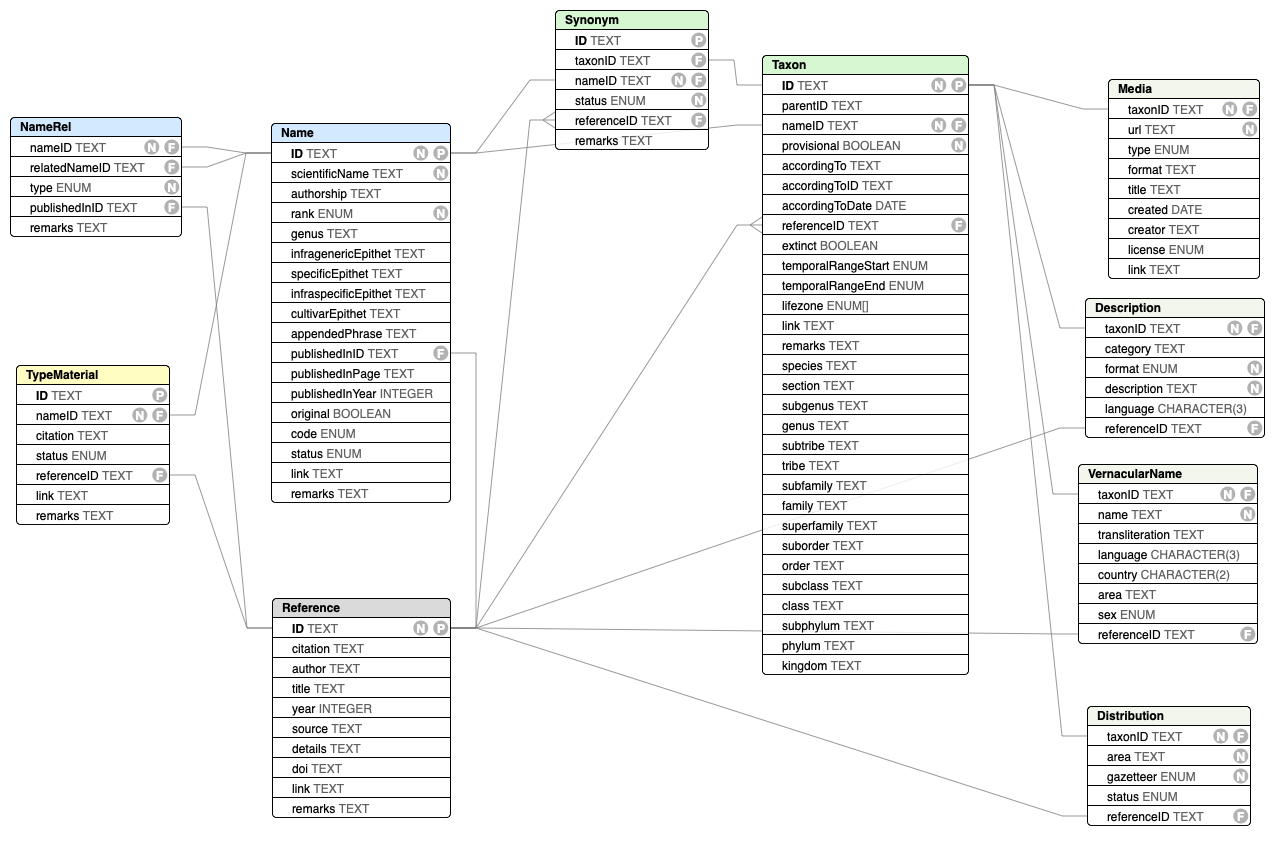
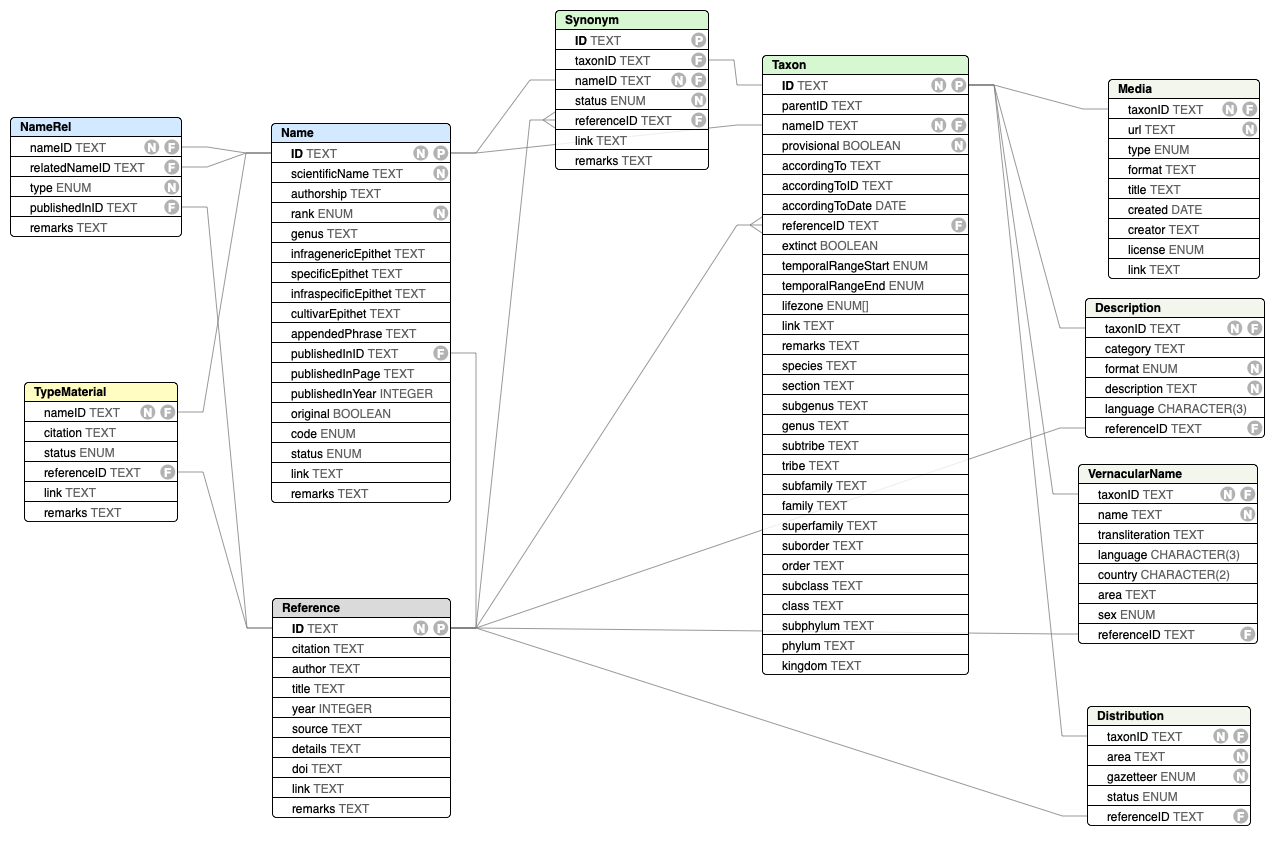
Remove TypeMaterial.ID

Changed region(s): [[0.0, 0.4277, 0.1529, 0.611], [0.4588, 0.1528, 0.52, 0.2139]]

diff --git a/README.md b/README.md
@@ -30,7 +30,7 @@ Name & taxon separation|-|-|x
 Structured references|x|-|x
 Nomenclatural relations|-|-|x
 Type species|-|x|x
-Type specimen|-|x|*
+Type specimen|-|x|x
 Taxon concepts|-|x|x
 Taxon concept relations|-|x|*
 Vernacular names|x|x|x
@@ -177,12 +177,8 @@ Remarks about the relation.
 
 ## TypeMaterial
 Type material designated to names.
-We avoid the use of fully structured specimen data and instead primarily use a single id, citation & status value.
+We avoid the use of fully structured specimen data and instead primarily use a citation & status value.
 Type material should only be associated with the original name, not with a recombination.
-
-#### ID
-Optional unique identifier for the specimen. 
-If coming from a Darwin Core world dwc:occurrenceID is a great fit.
 
 #### nameID
 Pointer to the typified name referring to an existing Name.ID within this data package.
